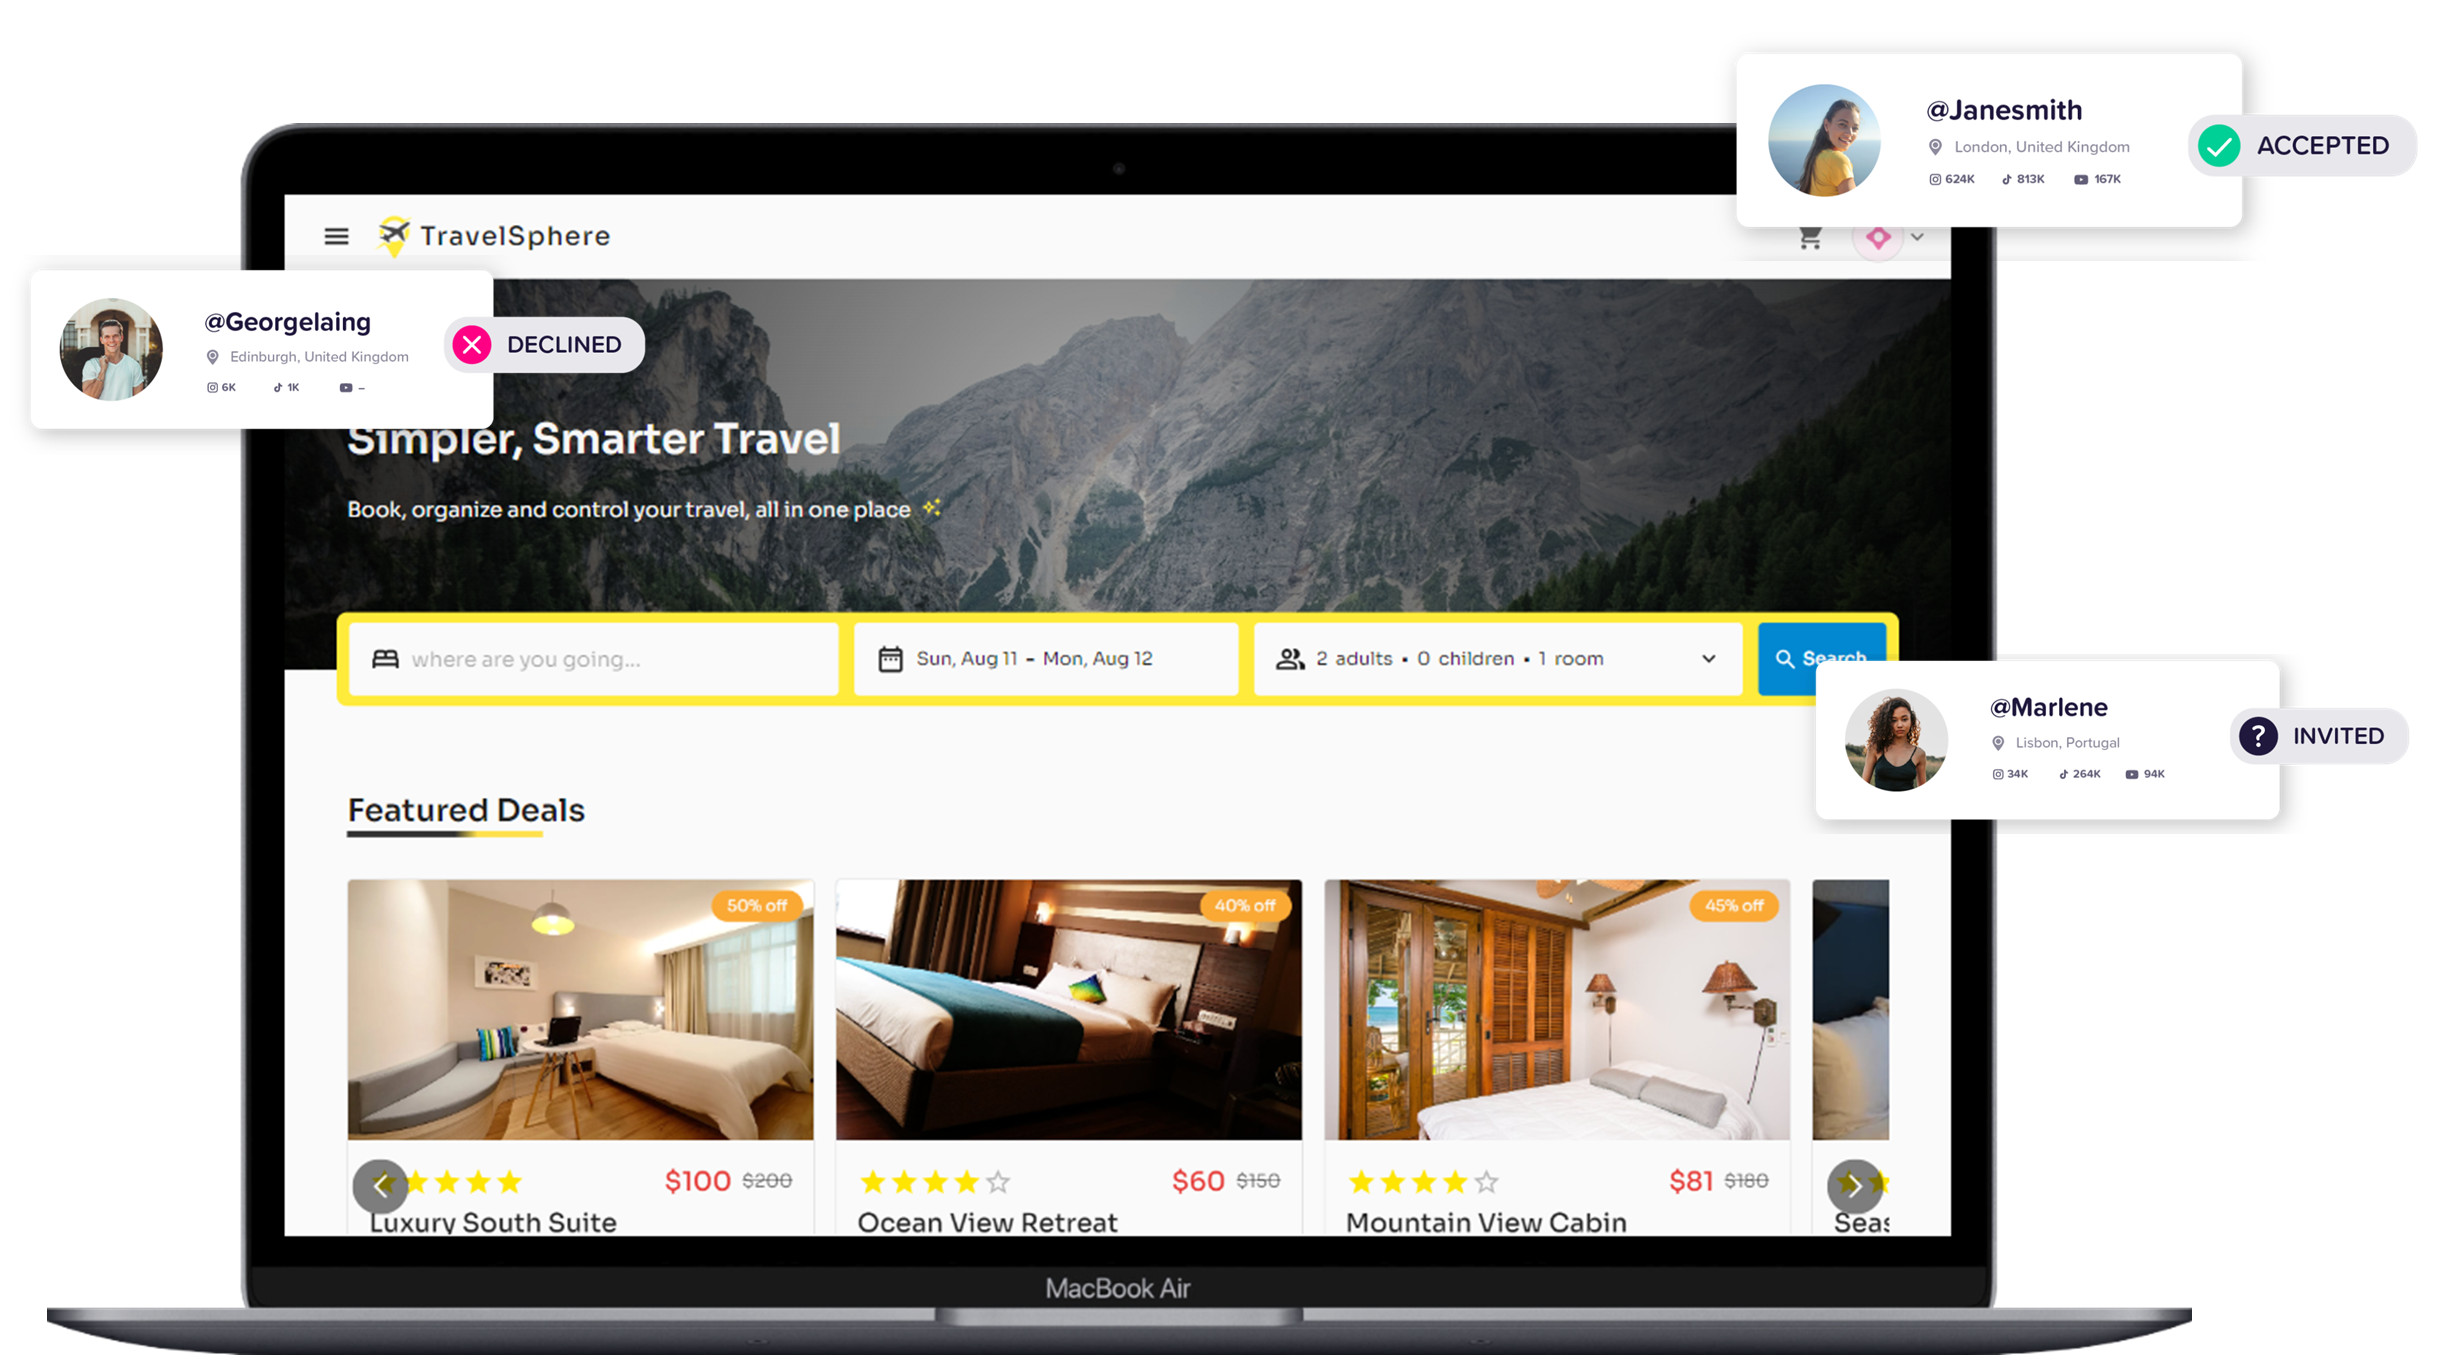
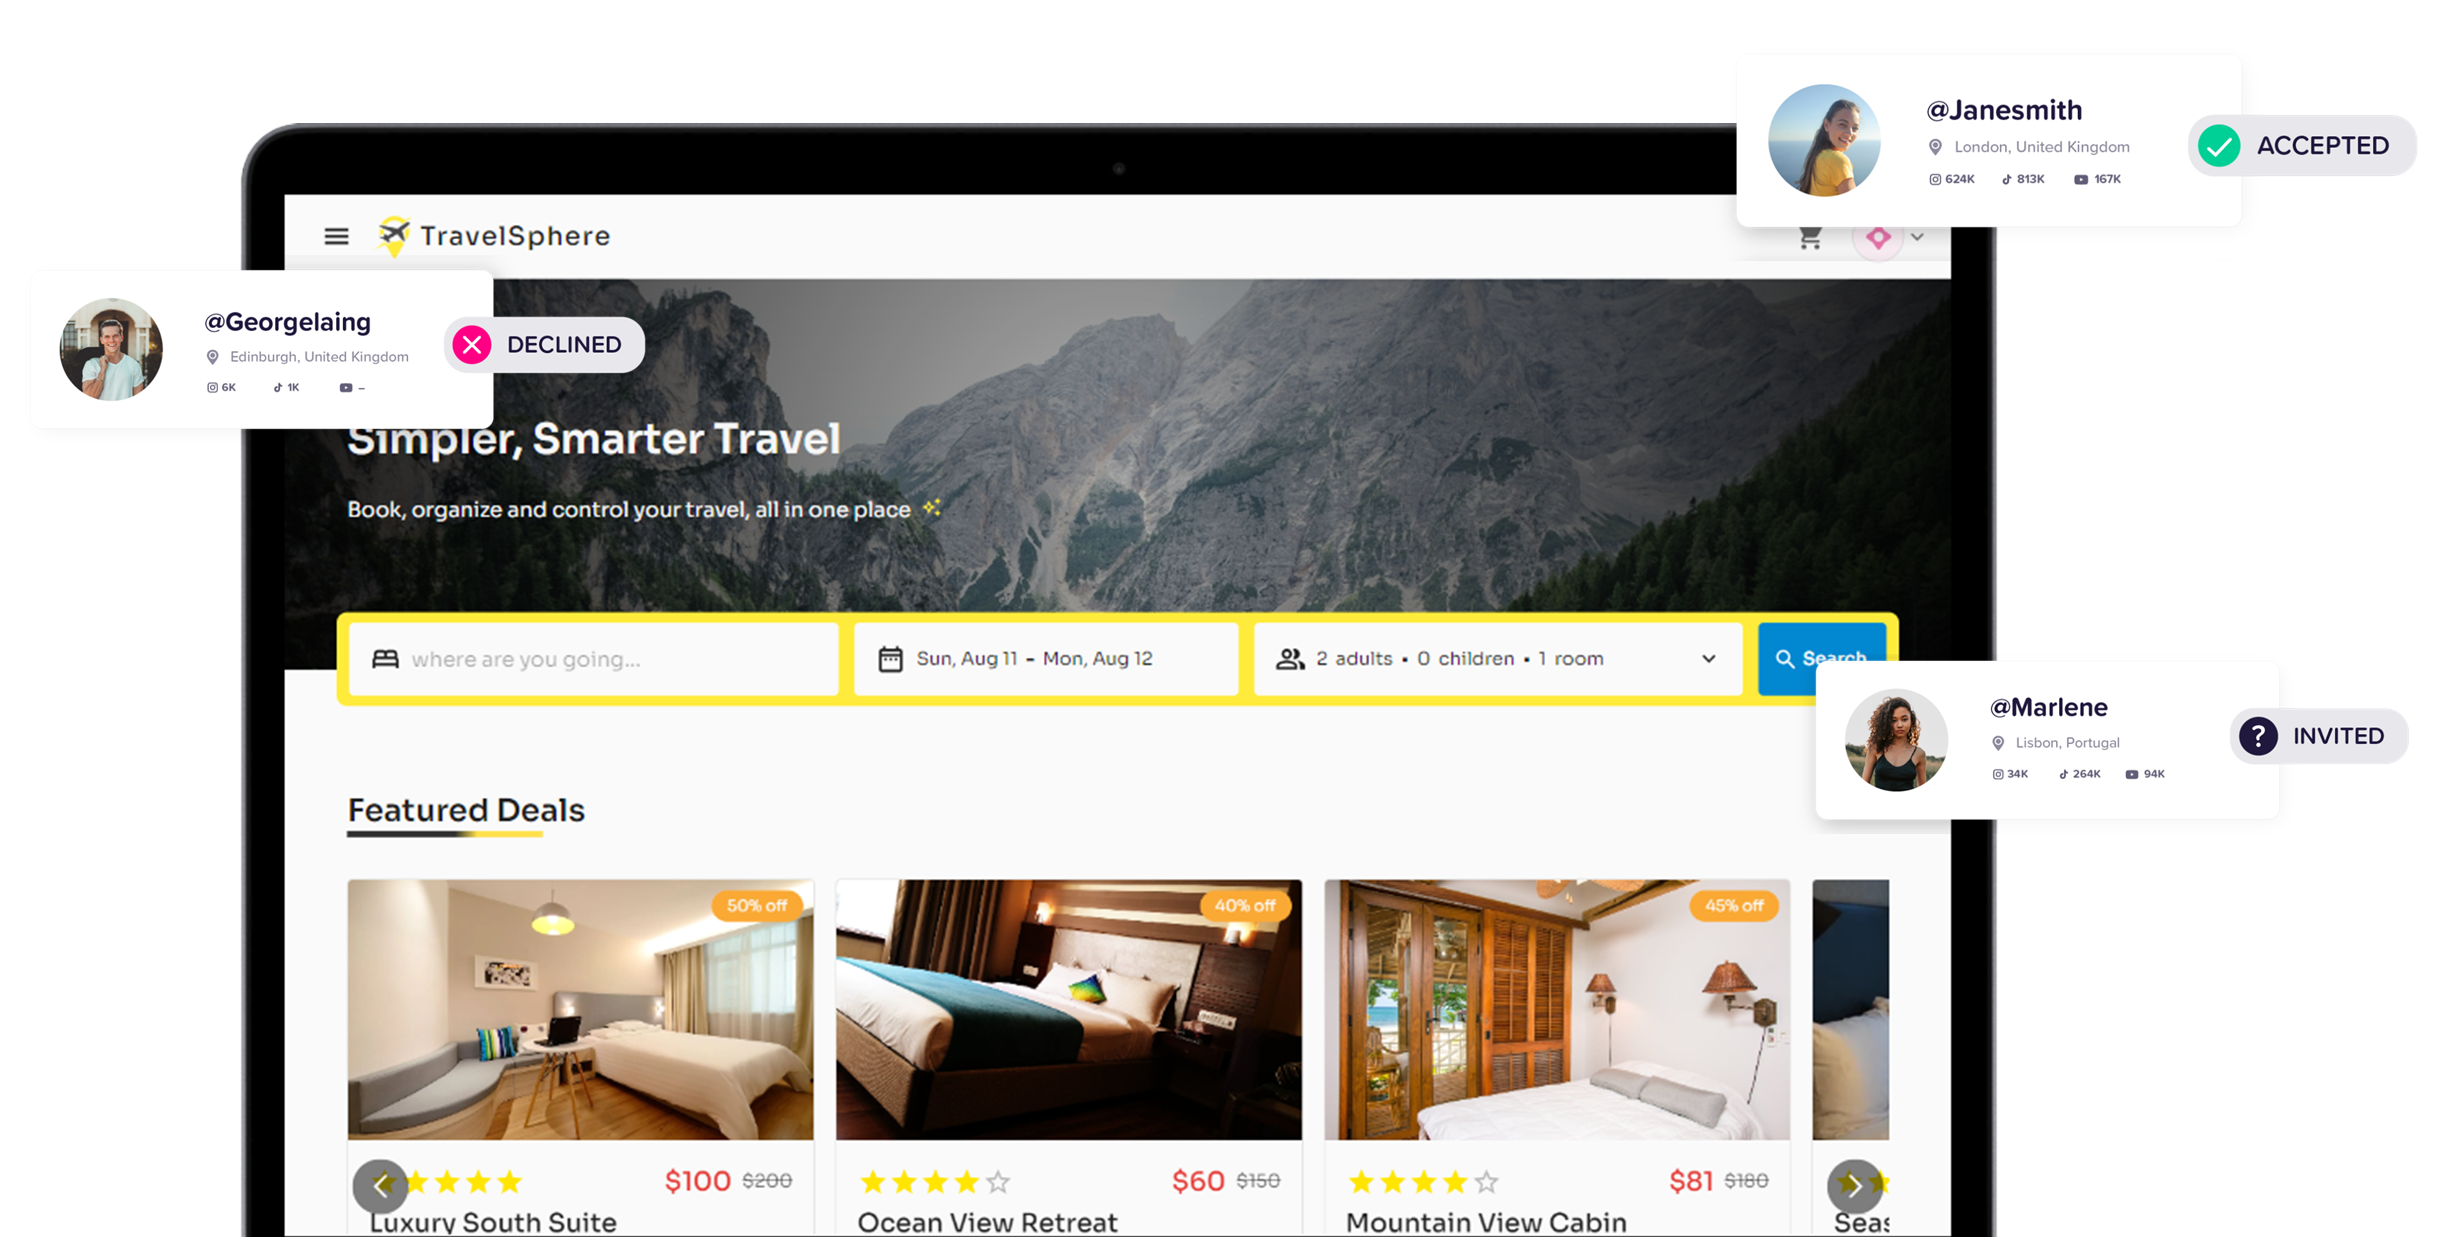
TS-13/ remove unused image and update home image name

diff --git a/src/pages/Landing/components/HeroSection.tsx b/src/pages/Landing/components/HeroSection.tsx
@@ -1,6 +1,6 @@
 import { Avatar, Box, Button, Grid, Stack, Typography } from "@mui/material";
 import { FC } from "react";
-import home from "src/assets/home2.png";
+import home from "src/assets/home.png";
 import icon from "src/assets/icon2.png";
 import sky from "src/assets/videos/sky.mp4";
 import styles from "../style.module.css";
